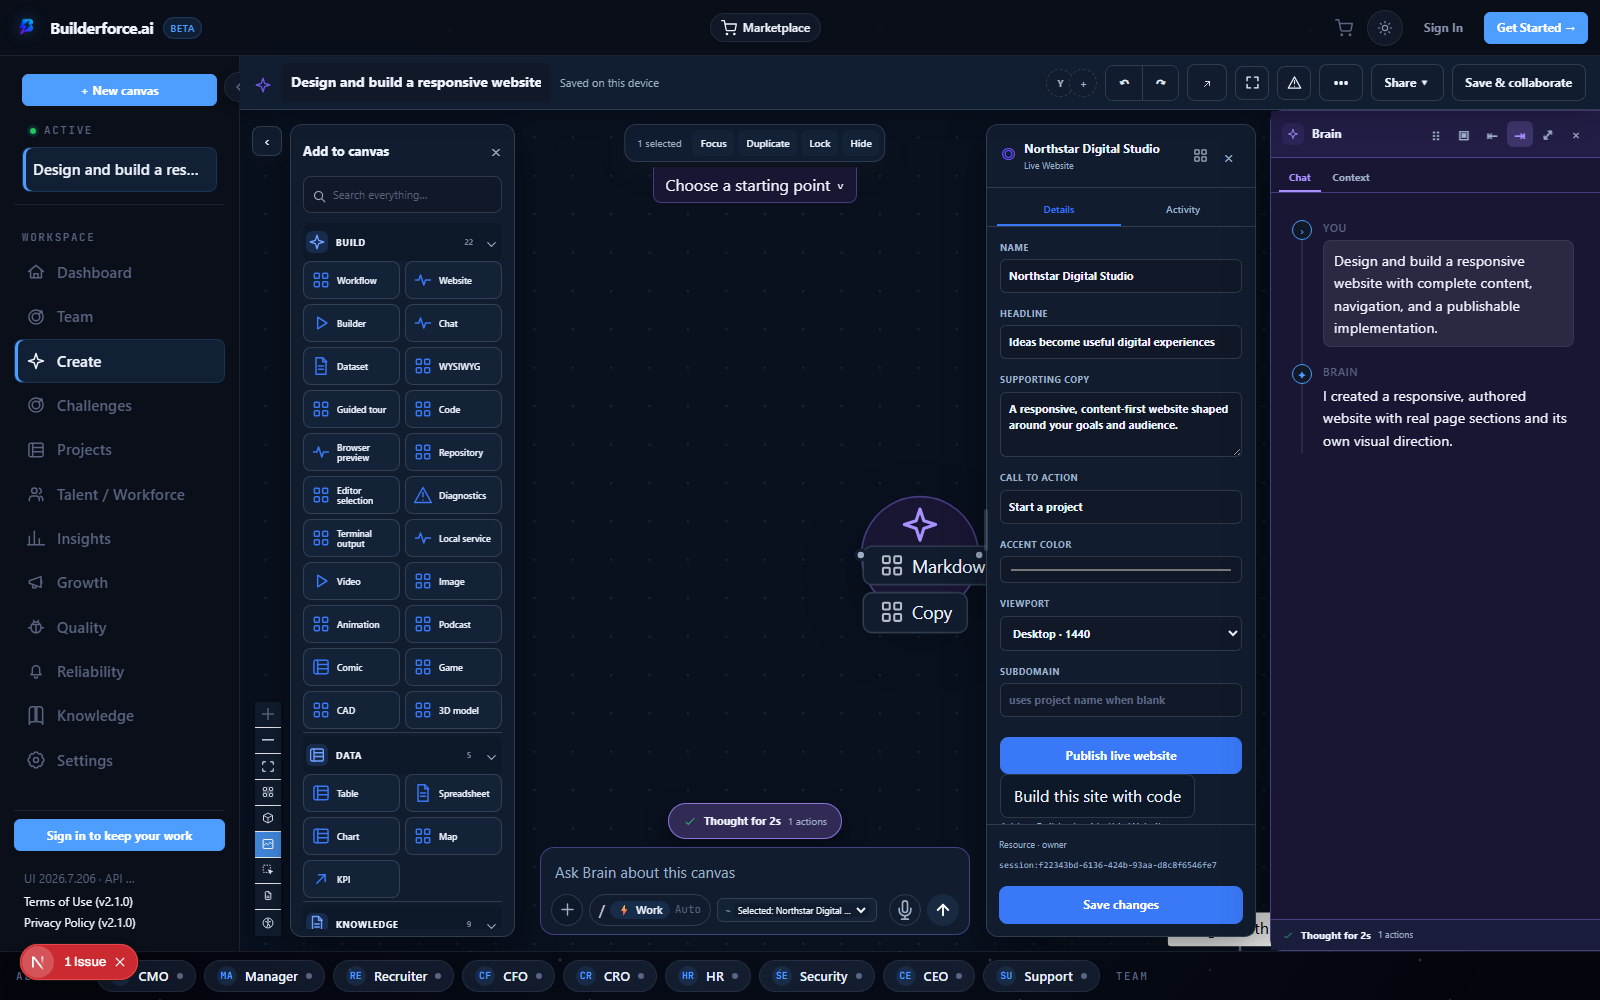
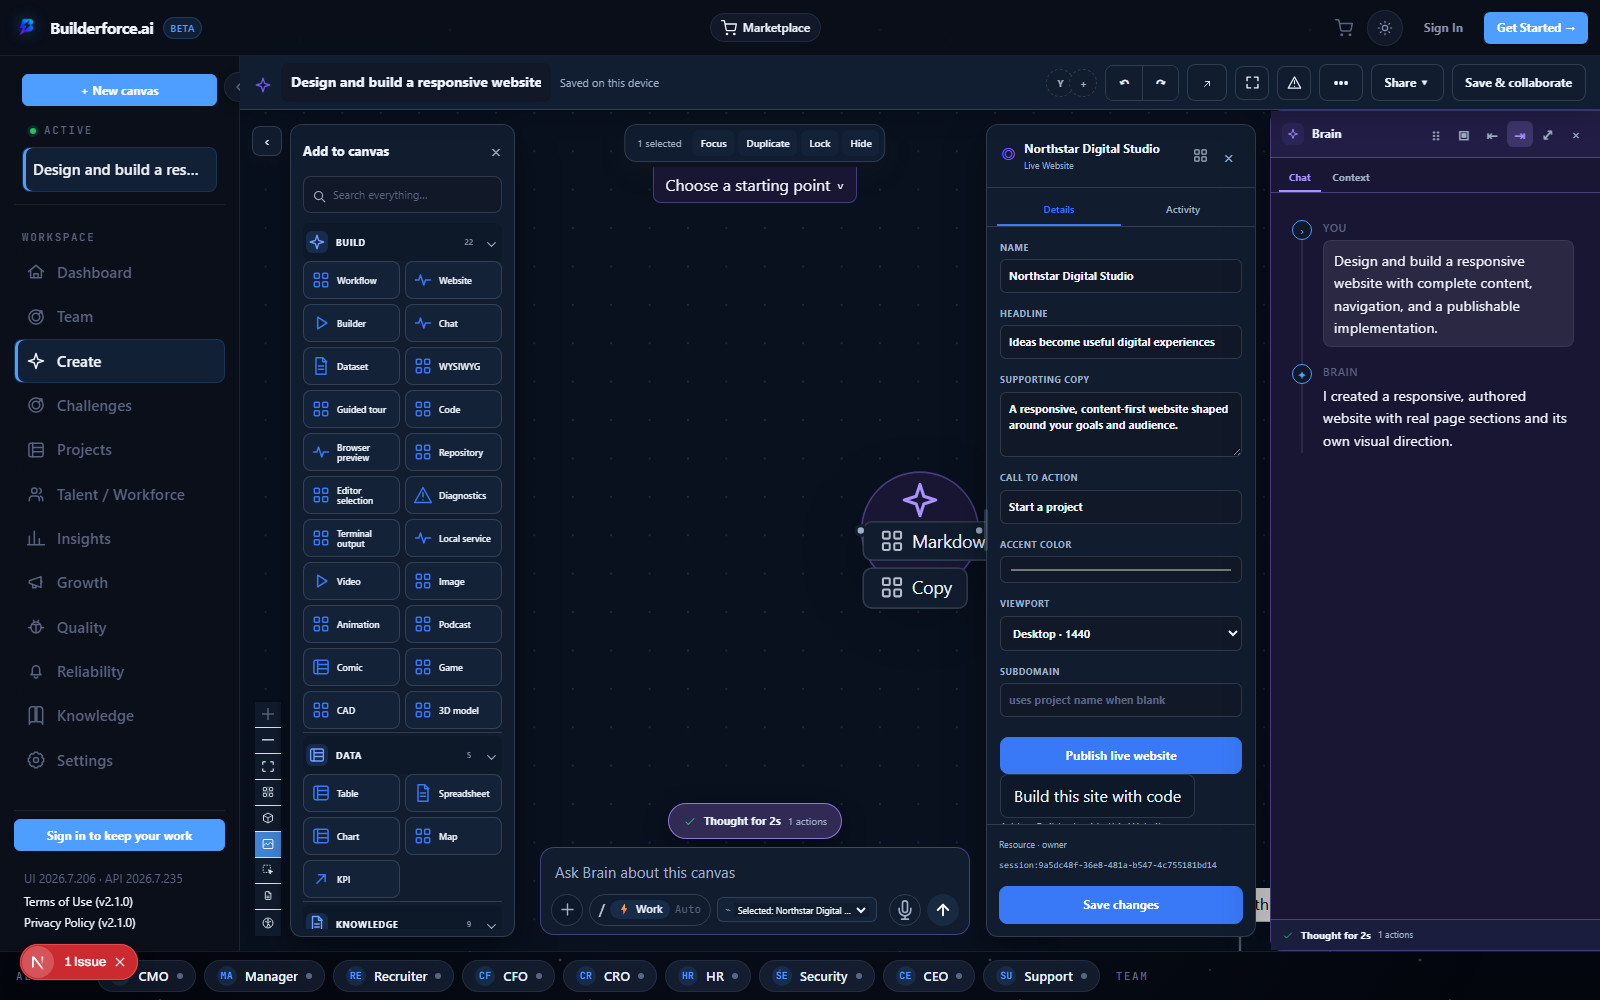
Fix UI/UX

diff --git a/frontend/src/components/creation-canvas/CreationCanvas.module.css b/frontend/src/components/creation-canvas/CreationCanvas.module.css
@@ -459,12 +459,16 @@
 .wysiwygStats { display:grid; grid-template-columns:repeat(3,minmax(0,1fr)); gap:1px; background:color-mix(in srgb,var(--site-fg) 12%,transparent); }.wysiwygStats span { display:grid; gap:2px; padding:12px; background:var(--site-bg); text-align:center; }.wysiwygStats strong { font:750 16px/1 var(--font-sans); }.wysiwygStats small { color:color-mix(in srgb,var(--site-fg) 60%,transparent); font-size:6px; }.wysiwygQuote { margin:0; padding:18px 24px; background:color-mix(in srgb,var(--site-bg) 86%,white); text-align:center; }.wysiwygQuote blockquote { max-width:34ch; margin:0 auto 7px; color:var(--site-fg); font:600 12px/1.35 Georgia,serif; }.wysiwygQuote cite { color:color-mix(in srgb,var(--site-fg) 58%,transparent); font-size:6px; font-style:normal; }.wysiwygCta { padding:18px 20px; color:white; }.wysiwygCta h4 { color:inherit; }.wysiwygCta p { max-width:48ch; margin:0 0 9px; font-size:7px; line-height:1.5; opacity:.8; }.wysiwygCta button { border:0; border-radius:var(--radius-sm); padding:5px 8px; background:white; color:#171717; font-size:6px; }
 .websitePreview[data-theme='bold'] .wysiwygHero { background:var(--site-fg); }.websitePreview[data-theme='bold'] .wysiwygHero h3,.websitePreview[data-theme='bold'] .wysiwygHero p,.websitePreview[data-theme='bold'] .wysiwygHero small { color:var(--site-bg); }.websitePreview[data-theme='minimal'] .wysiwygArt { display:none; }.websitePreview[data-theme='minimal'] .wysiwygHero { grid-template-columns:1fr; background:var(--site-bg); }.websitePreview[data-theme='soft'] { border-radius:16px; }.websitePreview[data-theme='soft'] .wysiwygHero { background:linear-gradient(135deg,color-mix(in srgb,var(--site-bg) 80%,white),color-mix(in srgb,var(--site-bg) 70%,pink)); }.websitePreview[data-theme='technical'] .wysiwygHero h3,.websitePreview[data-theme='technical'] .wysiwygSection h4 { font-family:var(--font-mono); }
 .websitePreview[data-viewport='tablet'] .wysiwygHero { grid-template-columns:minmax(0,1fr) minmax(105px,.62fr); }
-.websitePreview[data-viewport='mobile'] .siteNav span { display:none; }
+.websitePreview[data-viewport='mobile'] .siteNav { gap:4px; padding-inline:6px; }
+.websitePreview[data-viewport='mobile'] .siteNav > strong,.websitePreview[data-viewport='mobile'] .siteNav > button { display:none; }
+.websitePreview[data-viewport='mobile'] .siteNav span { display:flex; justify-content:flex-start; overflow-x:auto; }
 .websitePreview[data-viewport='mobile'] .wysiwygHero { grid-template-columns:1fr; }
 .websitePreview[data-viewport='mobile'] .wysiwygArt { min-height:120px; order:-1; }
 .websitePreview[data-viewport='mobile'] .wysiwygFeatures { grid-template-columns:1fr; }
 @container (max-width:430px) {
-  .siteNav span { display:none; }
+  .siteNav { gap:4px; padding-inline:6px; }
+  .siteNav > strong,.siteNav > button { display:none; }
+  .siteNav span { display:flex; justify-content:flex-start; overflow-x:auto; }
   .wysiwygHero { grid-template-columns:1fr; padding:14px; }
   .wysiwygArt { min-height:105px; order:-1; }
   .wysiwygFeatures { grid-template-columns:1fr; }
@@ -957,8 +961,9 @@
 
 /* Starting points belong in the open band below the selection controls. Keeping
    this picker structurally separate from the bottom composer prevents it from
-   covering the last lines of an inline Brain conversation. It uses the same open-
-   board centring arithmetic as the selection toolbar and composer. */
+   covering the last lines of an inline Brain conversation. The catalog keeps the
+   same usable width as the composer, while its trigger anchors at the far right so
+   the centred processing receipt never competes with it. */
 .promptStarter { position:absolute; z-index:16; top:58px; right:calc(300px + var(--brain-dock-right, 0px)); left:calc(300px + var(--brain-dock-left, 0px)); box-sizing:border-box; width:auto; max-width:700px; margin-inline:auto; display:flex; justify-content:center; --prompt-panel-bg:var(--canvas-brain-surface); --prompt-panel-border:var(--canvas-brain-border); }
 
 /* The prompt is a page fixture, not part of the Brain surface:centred on the board

diff --git a/frontend/src/components/SessionList.tsx b/frontend/src/components/SessionList.tsx
@@ -117,24 +117,26 @@ export function SessionList({ onNavigate }: { onNavigate?: () => void }) {
       )}
 
       {rest.length > 0 && (
-        <>
+        <div className="nav-sessions__recents">
           <div className="ui-eyebrow nav-sessions__label">{t('recents')}</div>
-          {rest.map((entry) => (
-            <Link
-              key={entry.id}
-              href={`/create/${entry.id}`}
-              className="nav-item nav-sessions__item"
-              onClick={onNavigate}
-              // An unclaimed draft is explicitly marked: it lives in this browser
-              // only, and saying so is the difference between "I'll get to it" and
-              // losing it.
-              title={entry.draft ? t('draftHint') : undefined}
-            >
-              <span className="nav-item-label">{entry.title}</span>
-              {entry.draft && <span className="nav-sessions__draft">{t('draft')}</span>}
-            </Link>
-          ))}
-        </>
+          <div className="nav-sessions__recent-list">
+            {rest.map((entry) => (
+              <Link
+                key={entry.id}
+                href={`/create/${entry.id}`}
+                className="nav-item nav-sessions__item"
+                onClick={onNavigate}
+                // An unclaimed draft is explicitly marked: it lives in this browser
+                // only, and saying so is the difference between "I'll get to it" and
+                // losing it.
+                title={entry.draft ? t('draftHint') : undefined}
+              >
+                <span className="nav-item-label">{entry.title}</span>
+                {entry.draft && <span className="nav-sessions__draft">{t('draft')}</span>}
+              </Link>
+            ))}
+          </div>
+        </div>
       )}
     </div>
   );

diff --git a/qa-e2e/docker-website-wysiwyg-smoke.js b/qa-e2e/docker-website-wysiwyg-smoke.js
@@ -143,7 +143,11 @@ function authoredWebsite(saved) {
     assert(secondText.includes('Book a demo'), 'Follow-up did not apply the requested CTA.');
     for (const name of ['Home', 'About', 'Services', 'Contact']) assert(secondText.includes(name), `Follow-up is missing the ${name} page.`);
     assert(!JSON.stringify(second.timeline).includes('did not actually make one'), 'Brain reported a non-mutating canvas change.');
-    await page.getByRole('button', { name: 'About', exact: true }).click();
+    const aboutPage = page.getByRole('button', { name: 'About', exact: true, includeHidden: true });
+    assert(await aboutPage.count() === 1, `Rendered Website nav has ${await aboutPage.count()} About buttons.`);
+    const aboutVisibility = await aboutPage.evaluate((element) => ({ display: getComputedStyle(element).display, parentDisplay: getComputedStyle(element.parentElement).display, width: element.getBoundingClientRect().width }));
+    assert(aboutVisibility.display !== 'none' && aboutVisibility.parentDisplay !== 'none' && aboutVisibility.width > 0, `Rendered Website nav is hidden: ${JSON.stringify(aboutVisibility)}`);
+    await aboutPage.click();
     await page.getByText('About — Acme Analytics', { exact: true }).waitFor({ state: 'visible', timeout: 5000 });
 
     await page.reload({ waitUntil: 'domcontentloaded', timeout: 120000 });

diff --git a/frontend/src/app/globals.css b/frontend/src/app/globals.css
@@ -1424,7 +1424,9 @@ html[data-theme='light'] .nebula {
 
 .nav-main {
   flex: 1;
-  overflow-y: auto;
+  display: flex;
+  flex-direction: column;
+  overflow-y: hidden;
   overflow-x: hidden;
   min-height: 0;
 }
@@ -1596,6 +1598,9 @@ html[data-theme='light'] .nebula {
 }
 
 .nav-section {
+  flex: 1 1 auto;
+  min-height: 0;
+  overflow-y: auto;
   margin-bottom: 16px;
 }
 
@@ -1604,10 +1609,30 @@ html[data-theme='light'] .nebula {
 .nav-sessions {
   display: flex;
   flex-direction: column;
+  flex: 0 1 auto;
+  max-height: 42%;
+  min-height: 0;
+  overflow: hidden;
   gap: var(--space-1);
   padding: 0 var(--space-2) var(--space-3);
   margin-bottom: var(--space-3);
   border-bottom: 1px solid var(--border-subtle);
+}
+
+/* Session count must not displace the destination menu. New Canvas and Active
+   stay visible; only the recents rows consume this bounded scrolling region. */
+.nav-sessions__recents {
+  display: flex;
+  flex-direction: column;
+  flex: 1 1 auto;
+  min-height: 0;
+  overflow: hidden;
+}
+
+.nav-sessions__recent-list {
+  min-height: 0;
+  overflow-y: auto;
+  overscroll-behavior: contain;
 }
 
 .nav-sessions__label,

diff --git a/frontend/src/i18n/messages.test.ts b/frontend/src/i18n/messages.test.ts
@@ -70,6 +70,14 @@ const QUICK_START_KEYS = [
   'note',
 ] as const;
 
+const CREATION_CANVAS_TOUR_CONTROL_KEYS = [
+  'back',
+  'next',
+  'startCreating',
+  'tourCancel',
+  'tourClose',
+] as const;
+
 /** Tag handlers for `t.rich` — every tag renders its chunks unchanged. */
 const tagsFor = (message: string): Record<string, (chunks: unknown) => unknown> =>
   Object.fromEntries(
@@ -99,6 +107,15 @@ describe('message catalogs', () => {
     const missing = CREATION_OBJECT_REGISTRY
       .map(({ kind }) => kind)
       .filter((kind) => t(`creationCanvas.object.${kind}` as never) === `creationCanvas.object.${kind}`);
+    expect(missing).toEqual([]);
+  });
+
+  it.each(LOCALES)('%s labels every creation canvas tour control', (locale) => {
+    const t = createTranslator({ locale, messages: CATALOGS[locale] });
+    const missing = CREATION_CANVAS_TOUR_CONTROL_KEYS.filter((control) => {
+      const key = `creationCanvas.${control}`;
+      return t(key as never) === key;
+    });
     expect(missing).toEqual([]);
   });
 

diff --git a/frontend/src/components/PromptUseCasePicker.tsx b/frontend/src/components/PromptUseCasePicker.tsx
@@ -7,8 +7,9 @@ import { Icon } from '@/components/ui/Icon';
 
 type PromptUseCase = { category: string; label: string; prompt: string };
 
-export function PromptUseCasePicker({ placement, onSelect }: {
+export function PromptUseCasePicker({ placement, align = 'center', onSelect }: {
   placement: 'top' | 'bottom';
+  align?: 'center' | 'end';
   onSelect: (prompt: string) => void;
 }) {
   const t = useTranslations('promptUseCases');
@@ -90,7 +91,7 @@ export function PromptUseCasePicker({ placement, onSelect }: {
     </div>
   );
 
-  return <div ref={rootRef} className={styles.root} data-placement={placement}>{placement === 'top' ? <>{panel}{tab}</> : <>{tab}{panel}</>}</div>;
+  return <div ref={rootRef} className={styles.root} data-placement={placement} data-align={align}>{placement === 'top' ? <>{panel}{tab}</> : <>{tab}{panel}</>}</div>;
 }
 
 const USE_CASE_ICONS = ['□', '◎', '▶', '▣', '◇', '⌘', '◖', '✉', '▤', '▥', '↗', '✦', '🧠', '▷', '◉', '▦', '◆', '⌗', '⬡', '◈'];

diff --git a/frontend/src/components/PromptUseCasePicker.module.css b/frontend/src/components/PromptUseCasePicker.module.css
@@ -1,4 +1,5 @@
 .root { width:100%; display:flex; flex-direction:column; align-items:center; color:var(--text-primary, var(--canvas-ink)); }
+.root[data-align='end'] { align-items:flex-end; }
 .tab { display:inline-flex; align-items:center; gap:7px; min-height:27px; padding:4px 12px; border:1px solid var(--prompt-panel-border, var(--border-subtle)); background:var(--prompt-panel-bg, var(--bg-elevated)); color:inherit; font:600 11px/1.2 inherit; cursor:pointer; }
 .root[data-placement='top'] .tab { margin-bottom:-1px; border-radius:var(--radius-md) var(--radius-md) 0 0; border-bottom-color:transparent; }
 .root[data-placement='bottom'] .tab { margin-top:-1px; border-radius:0 0 var(--radius-md) var(--radius-md); border-top-color:transparent; }

diff --git a/frontend/src/components/creation-canvas/CreationCanvas.tsx b/frontend/src/components/creation-canvas/CreationCanvas.tsx
@@ -4674,7 +4674,7 @@ function CanvasInner({ sessionId, persistence, initialFocusId, initialShareOpen 
    * its Object, docked to either edge, or closed entirely.
    */
   const promptStarter = !presentMode && <div className={styles.promptStarter} data-tour="creation-prompt-starter">
-    <PromptUseCasePicker placement="bottom" onSelect={setPrompt} />
+    <PromptUseCasePicker placement="bottom" align="end" onSelect={setPrompt} />
   </div>;
 
   const composer = !presentMode && <div className={styles.composerDock} data-tour="creation-brain-dock">

diff --git a/frontend/src/components/creation-canvas/CreationCanvas.test.tsx b/frontend/src/components/creation-canvas/CreationCanvas.test.tsx
@@ -780,6 +780,7 @@ describe('CreationCanvas', () => {
     const starter = screen.getByRole('button', { name: 'Choose a starting point' });
     expect(prompt.closest('[data-tour="creation-brain-dock"]')).not.toContainElement(starter);
     expect(starter.closest('[data-tour="creation-prompt-starter"]')).not.toBeNull();
+    expect(starter.closest('[data-align="end"]')).not.toBeNull();
   });
 
   it('moves Brain into its Object rather than putting a second chat on the board', () => {
